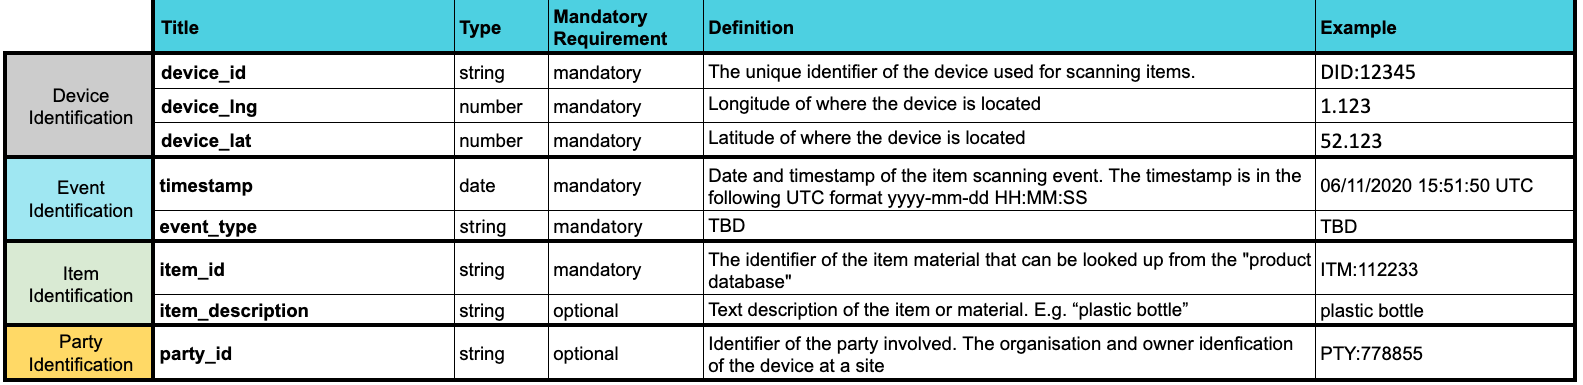
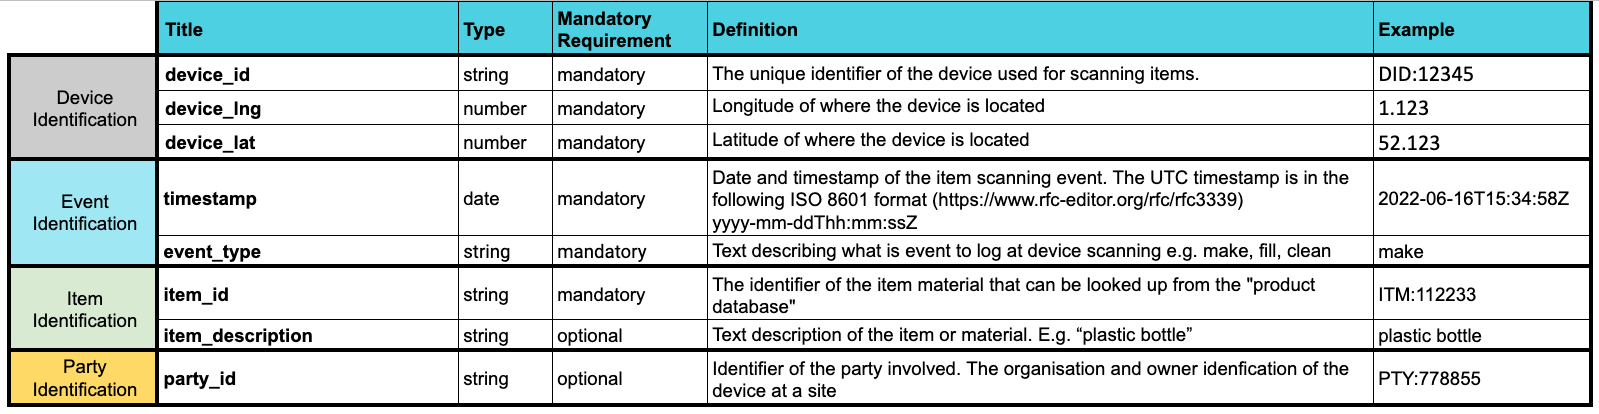
Update to document data descriptions

diff --git a/README.md b/README.md
@@ -33,10 +33,10 @@ Topolytics propose the following fields for the events (see [examples](./example
 - **device_id** - The unique identifier of the device used for scanning items.
 - **device_lng** - Longitude of where the device is located.
 - **device_lat** - Latitude of where the device is located.
-- **timestamp** - Date and timestamp of the item scanning event. The timestamp is in the following UTC format yyyy-mm-dd HH:MM:SS
+- **timestamp** - Date and timestamp of the item scanning event. The timestamp format (https://www.rfc-editor.org/rfc/rfc3339) `yyyy-mm-ddThh:mm:ssZ`
 - **event_type** - [Further information about types of events](./events.md)
 - **item_id** - The identifier of the item material that can be looked up from the "product database"
-- **item_description (optional)** - Text description of the item or material. E.g. “plastic bottle”
+- **item_description (optional)** - Text description of the item or material. E.g. "plastic bottle"
 - **party_id (optional)** - Identifier of the party involved. The organisation and owner identification of the device at a site
 
 This data should be encoded as valid JSON using UTF-8 character encoding. See Appendex ii for an example POST request using curl.
